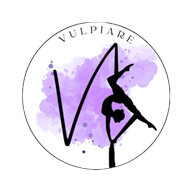
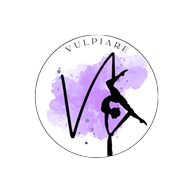
fix(pwa): regenerar iconos al 65% de escala con versionado de archivos v2 para circulo 100% visible

diff --git a/frontend/index.html b/frontend/index.html
@@ -2,7 +2,7 @@
 <html lang="es">
   <head>
     <meta charset="UTF-8" />
-    <link rel="icon" type="image/png" href="/vulpiare_logo.png" />
+    <link rel="icon" type="image/png" href="/pwa-192-v2.png" />
     <meta name="viewport" content="width=device-width, initial-scale=1.0, maximum-scale=1.0, user-scalable=no, viewport-fit=cover" />
     <title>Vulpiare - Asistencia & Control de Retiros</title>
 
@@ -15,9 +15,9 @@
     <meta name="apple-mobile-web-app-capable" content="yes" />
     <meta name="apple-mobile-web-app-status-bar-style" content="black-translucent" />
     <meta name="apple-mobile-web-app-title" content="Vulpiare" />
-    <link rel="apple-touch-icon" href="/apple-touch-icon.png" />
-    <link rel="apple-touch-icon" sizes="192x192" href="/pwa-192.png" />
-    <link rel="apple-touch-icon" sizes="512x512" href="/pwa-512.png" />
+    <link rel="apple-touch-icon" href="/apple-touch-icon-v2.png" />
+    <link rel="apple-touch-icon" sizes="192x192" href="/pwa-192-v2.png" />
+    <link rel="apple-touch-icon" sizes="512x512" href="/pwa-512-v2.png" />
 
     <!-- Android / Chrome Web App Settings -->
     <meta name="mobile-web-app-capable" content="yes" />

diff --git a/frontend/public/sw.js b/frontend/public/sw.js
@@ -1,11 +1,16 @@
 // VULPIARE Progressive Web App - Service Worker
-const CACHE_NAME = 'vulpiare-pwa-v2';
+const CACHE_NAME = 'vulpiare-pwa-v3';
 
 const STATIC_ASSETS = [
   '/',
   '/index.html',
   '/manifest.json',
   '/vulpiare_logo.png',
+  '/pwa-192-v2.png',
+  '/pwa-512-v2.png',
+  '/pwa-192-maskable-v2.png',
+  '/pwa-512-maskable-v2.png',
+  '/apple-touch-icon-v2.png',
   '/pwa-192.png',
   '/pwa-512.png',
   '/pwa-192-maskable.png',
